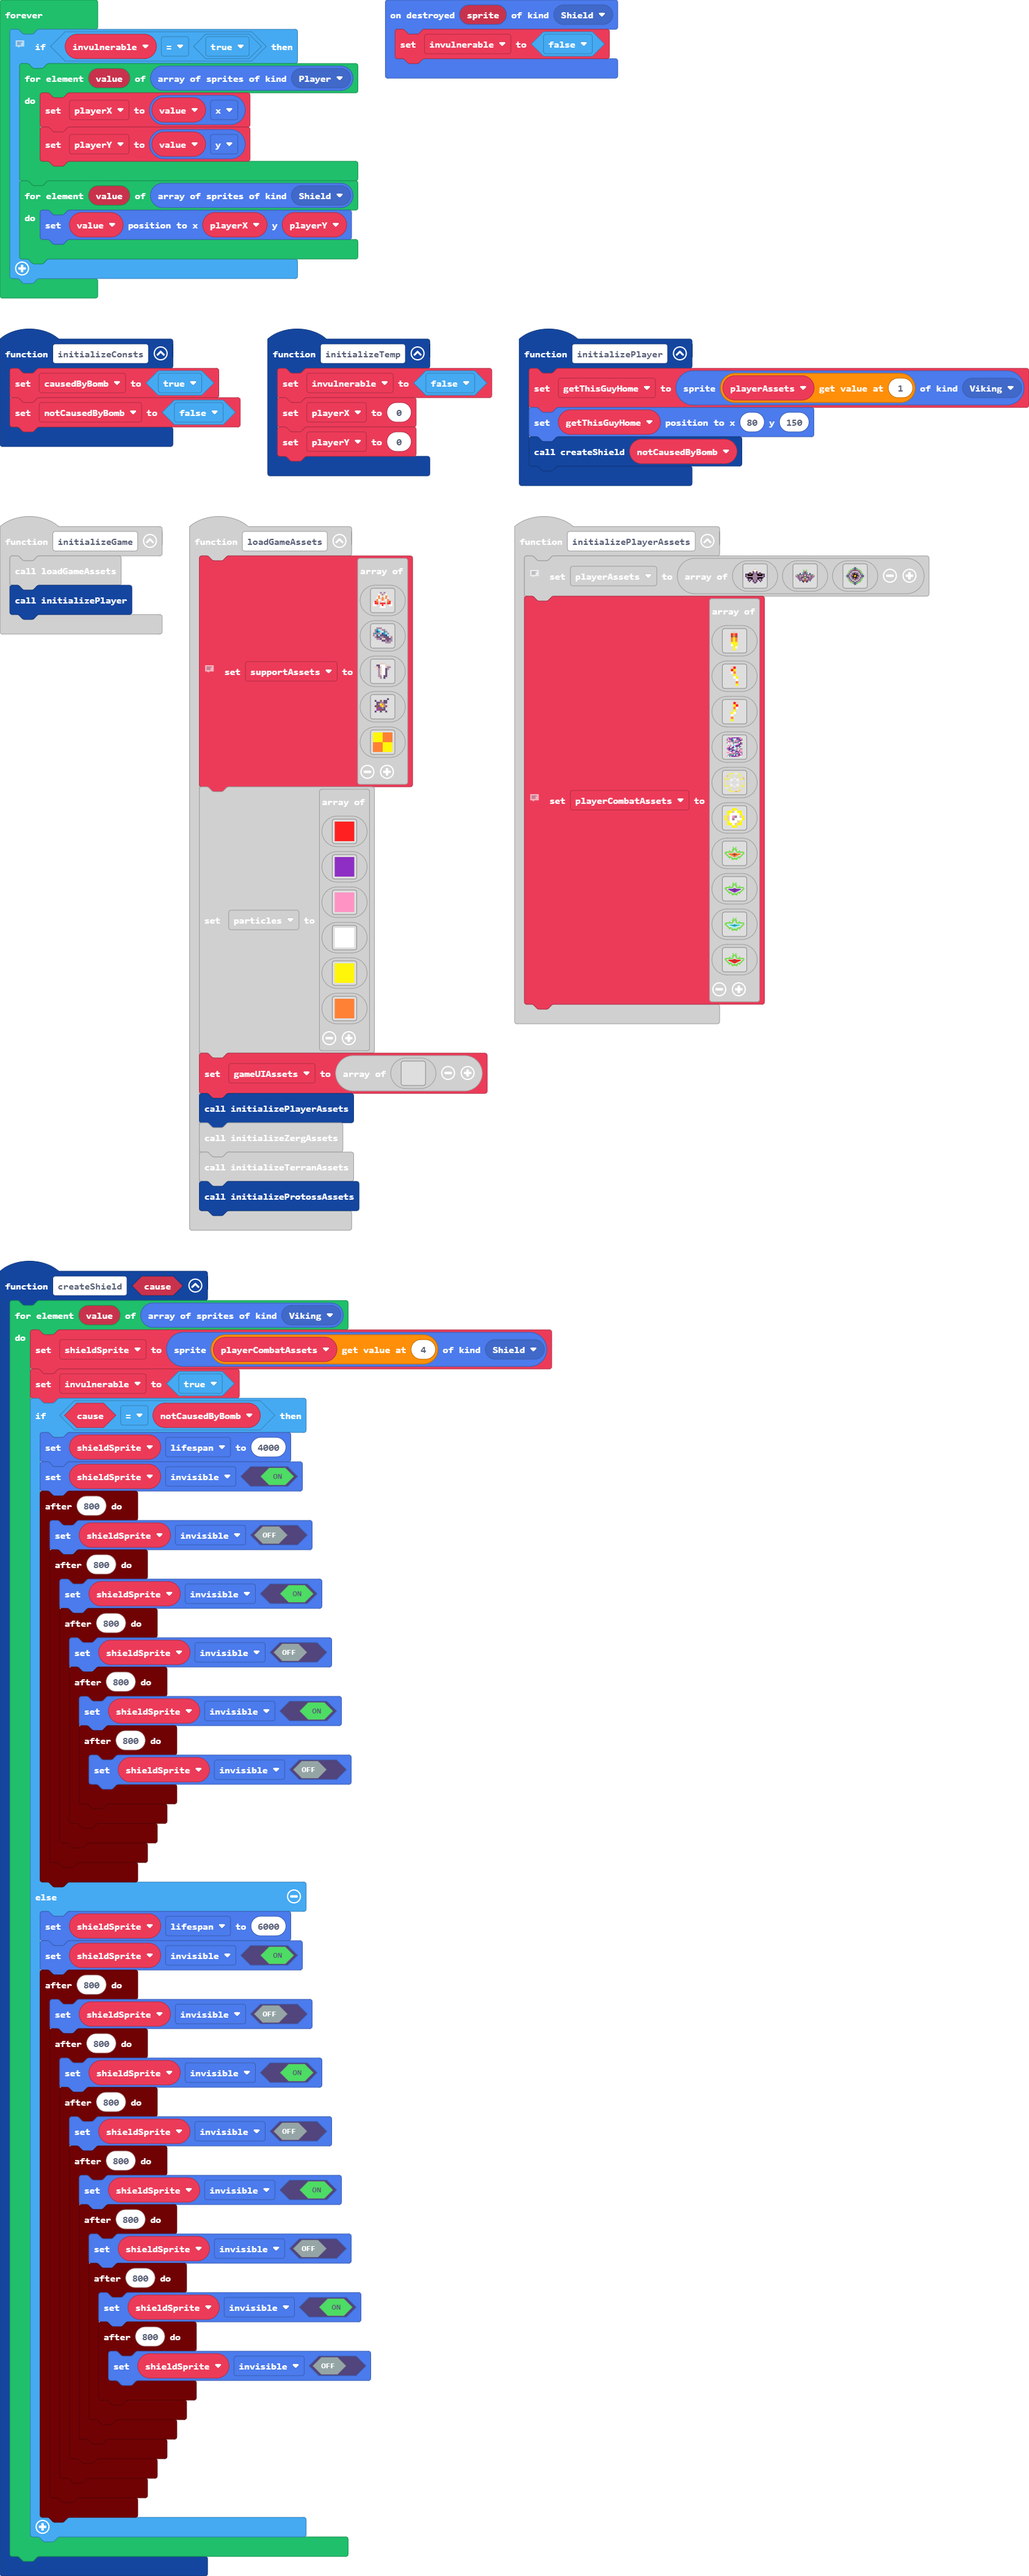
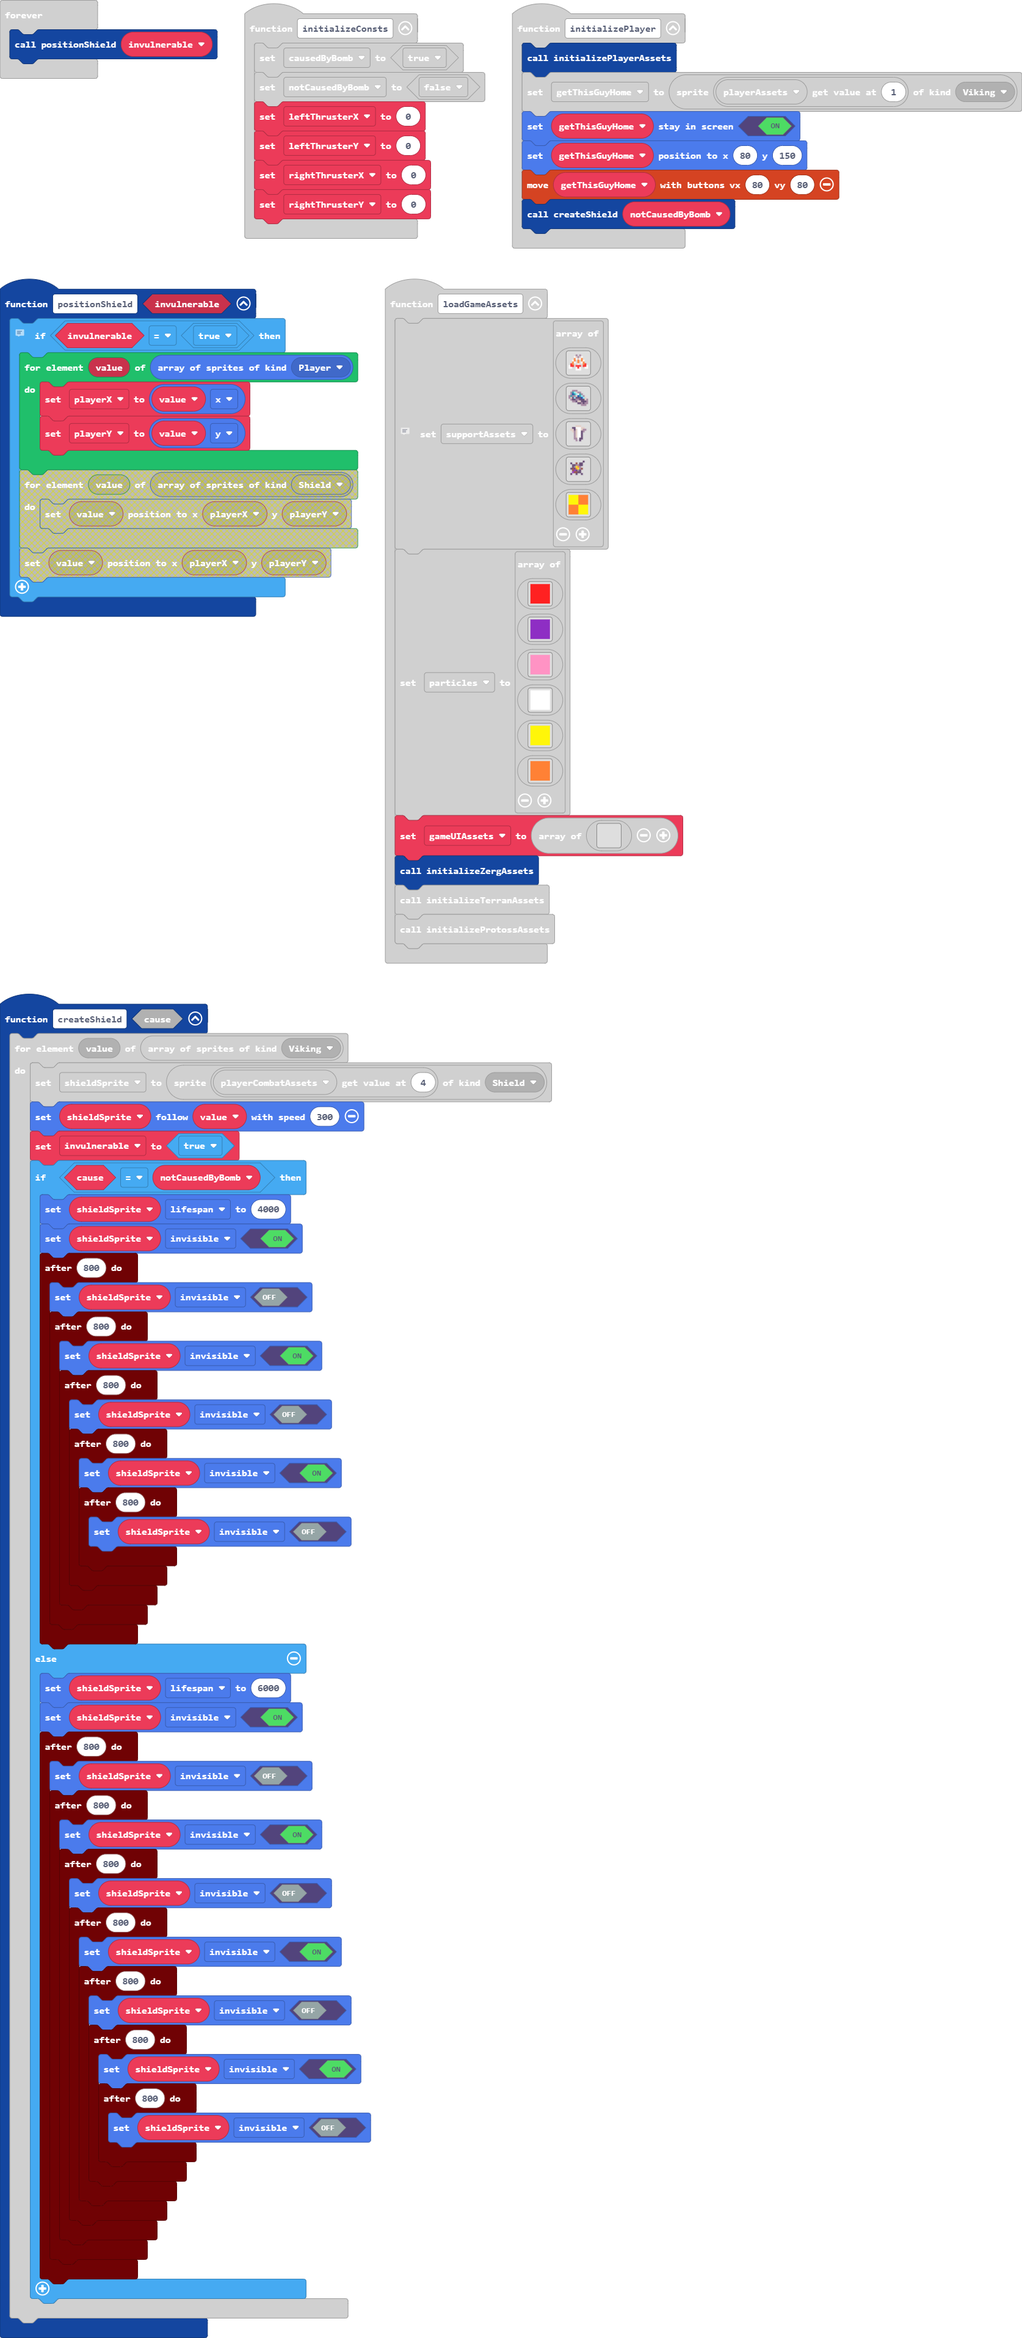
rediscovered "follow" block

diff --git a/main.ts b/main.ts
@@ -2,9 +2,22 @@ namespace SpriteKind {
     export const Viking = SpriteKind.create()
     export const Shield = SpriteKind.create()
 }
+function positionShield (invulnerable: boolean) {
+    // if invulnerable true
+    // > centre resulting shield on player
+    if (invulnerable == true) {
+        for (let value of sprites.allOfKind(SpriteKind.Player)) {
+            playerX = value.x
+            playerY = value.y
+        }
+    }
+}
 function initializePlayer () {
+    initializePlayerAssets()
     getThisGuyHome = sprites.create(playerAssets[1], SpriteKind.Viking)
+    getThisGuyHome.setStayInScreen(true)
     getThisGuyHome.setPosition(80, 150)
+    controller.moveSprite(getThisGuyHome, 80, 80)
     createShield(notCausedByBomb)
 }
 function initializeTerranAssets () {
@@ -203,10 +216,15 @@ function initializeGame () {
 function initializeConsts () {
     causedByBomb = true
     notCausedByBomb = false
+    leftThrusterX = 0
+    leftThrusterY = 0
+    rightThrusterX = 0
+    rightThrusterY = 0
 }
 function createShield (cause: boolean) {
     for (let value of sprites.allOfKind(SpriteKind.Viking)) {
         shieldSprite = sprites.create(playerCombatAssets[4], SpriteKind.Shield)
+        shieldSprite.follow(value, 300)
         invulnerable = true
         if (cause == notCausedByBomb) {
             shieldSprite.lifespan = 4000
@@ -997,7 +1015,6 @@ function loadGameAssets () {
         . . . . . . . . . . . . . . . . 
         . . . . . . . . . . . . . . . . 
         `]
-    initializePlayerAssets()
     initializeZergAssets()
     initializeTerranAssets()
     initializeProtossAssets()
@@ -1007,12 +1024,14 @@ let particles2: Image[] = []
 let supportAssets: Image[] = []
 let protossCombatAssets: Image[] = []
 let protossAssets: Image[] = []
-let playerY = 0
-let playerX = 0
 let zergCombatAssets: Image[] = []
 let zergAssets: Image[] = []
 let playerCombatAssets: Image[] = []
 let shieldSprite: Sprite = null
+let rightThrusterY = 0
+let rightThrusterX = 0
+let leftThrusterY = 0
+let leftThrusterX = 0
 let causedByBomb = false
 let invulnerable = false
 let terranCombatAssets: Image[] = []
@@ -1020,17 +1039,9 @@ let terranAssets: Image[] = []
 let notCausedByBomb = false
 let playerAssets: Image[] = []
 let getThisGuyHome: Sprite = null
+let playerY = 0
+let playerX = 0
 initializeGame()
 forever(function () {
-    // if invulnerable true
-    // > centre resulting shield on player
-    if (invulnerable == true) {
-        for (let value of sprites.allOfKind(SpriteKind.Player)) {
-            playerX = value.x
-            playerY = value.y
-        }
-        for (let value of sprites.allOfKind(SpriteKind.Shield)) {
-            value.setPosition(playerX, playerY)
-        }
-    }
+    positionShield(invulnerable)
 })
